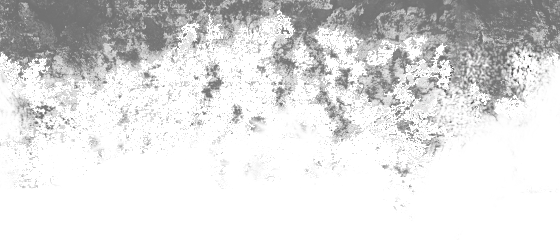
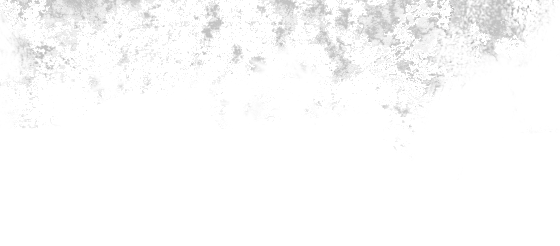
restyling and main pagination

diff --git a/css/style.css b/css/style.css
@@ -1,25 +1,31 @@
 body {
 	margin:0px;
-	background-color:#332B24;
+	background-color:#002233;
+	background: -moz-linear-gradient(top, rgba(0,34,51,1) 0%, rgba(0,34,51,1) 45%, rgba(0,0,0,1) 100%, rgba(0,0,0,1) 100%);
+background: -webkit-gradient(linear, left top, left bottom, color-stop(0%,rgba(0,34,51,1)), color-stop(45%,rgba(0,34,51,1)), color-stop(100%,rgba(0,0,0,1)), color-stop(100%,rgba(0,0,0,1)));
+background: -webkit-linear-gradient(top, rgba(0,34,51,1) 0%,rgba(0,34,51,1) 45%,rgba(0,0,0,1) 100%,rgba(0,0,0,1) 100%);
+background: -o-linear-gradient(top, rgba(0,34,51,1) 0%,rgba(0,34,51,1) 45%,rgba(0,0,0,1) 100%,rgba(0,0,0,1) 100%);
+background: -ms-linear-gradient(top, rgba(0,34,51,1) 0%,rgba(0,34,51,1) 45%,rgba(0,0,0,1) 100%,rgba(0,0,0,1) 100%);
+background: linear-gradient(to bottom, rgba(0,34,51,1) 0%,rgba(0,34,51,1) 45%,rgba(0,0,0,1) 100%,rgba(0,0,0,1) 100%);
 	min-width:850px;
+	font-family:'Oxygen', sans-serif;
+	height:100%;
 	}
 
 .panel_title {
-	font-family:sans-serif;
+	font-family:'Oxygen', sans-serif;
 	text-align:center;
 }
 
 .header_table{
 	width:100%;
 	min-width:850px;
-	background-image: url("../images/banner_bg.jpg");
+	background-image: url("../images/login_bg.png");
 	background-repeat:repeat-x;
-	background-color:#ff9933;
+	background-color:#002233;
 	display:table;
 	height:100px;
 	position:relative;
-
-
 }
 
 #new_user_overlay {
@@ -36,7 +42,7 @@ body {
 }
 #new_user_overlay div {
 	visibility:inherit;
-	 font-family:sans-serif;
+	 font-family:'Oxygen', sans-serif;
      width:50%;
      min-width:200px;
      margin: 100px auto;
@@ -74,7 +80,7 @@ body {
 #login_area {
 
 	position:absolute;
-	font-family:sans-serif;
+	font-family:'Oxygen', sans-serif;
 	text-align: center;
 	margin-top:10px;
 	padding:20px;
@@ -85,7 +91,7 @@ body {
 #login_box {
 
 	font-weight: bold;
-	color:green;
+	color:white;
 }
 
 #login_box a {
@@ -186,19 +192,17 @@ body {
 	float:left;
 	position:relative;
 	padding:0 0 1em 0;						
-	overflow:hidden;
+
 }
 
-.threecol {
-	background:#eee;		
-}
+
 .threecol .colmid {
 	right:25%;			
-	background:#fff;		
+	
 }
 .threecol .colleft {
 	right:50%;			
-	background:#f4f4f4;	
+
 }
 .threecol .col1 {
 	width:46%;			
@@ -218,40 +222,115 @@ body {
 }
 
 .main_box {
+	-webkit-box-shadow: 0px 22px 52px 0px rgba(0,0,0,0.75);
+	-moz-box-shadow: 0px 22px 52px 0px rgba(0,0,0,0.75);
+	box-shadow: 0px 22px 52px 0px rgba(0,0,0,0.75);
+	-webkit-box-shadow: inset 0px 0px 29px 0px rgba(35,45,51,1);
+	-moz-box-shadow: inset 0px 0px 29px 0px rgba(35,45,51,1);
+	box-shadow: inset 0px 0px 20px 0px rgba(35,45,51,.4);
 	border:1px solid black;
-	border-radius: 25px;
+	border-radius: 5px;
 	padding:10px;
+	background-color:#E4EEF5;
+	background-image: url('../images/box_fx.png');
+	background-repeat: repeat-x;
+	background-position: top;
+	
 }
+   
 .box {
 	border:1px solid gray;
 	list-style-type: none;
-	border-radius: 25px;
+	overflow:hidden;
+	border-radius:5px;
 	padding:10px;
+	background-color:#fff;
+	-webkit-box-shadow: 0px 22px 52px 0px rgba(0,0,0,0.75);
+	-moz-box-shadow: 0px 22px 52px 0px rgba(0,0,0,0.75);
+	box-shadow: 0px 22px 52px 0px rgba(0,0,0,0.75);
+	-webkit-box-shadow: inset 0px 0px 29px 0px rgba(35,45,51,1);
+	-moz-box-shadow: inset 0px 0px 29px 0px rgba(35,45,51,1);
+	box-shadow: inset 0px 0px 20px 0px rgba(35,45,51,.4);
+	background-color:#E4EEF5;
+	background-image: url('../images/box_fx.png');
+	background-repeat: repeat-x;
+	background-position: top;
 }	
+.box a{
+	color:#002233;
+}
+.box a:visited{
+	color:#002233;
+}
+.box a:hover{
+	color:#002233;
+}
+
 
 .textbox {
 	width:100%;
+	border:1px solid #gray;
+}
+.textbox:focus{
+	-webkit-box-shadow: 0px 0px 5px 0px rgba(81,162,224,1);
+-moz-box-shadow: 0px 0px 5px 0px rgba(81,162,224,1);
+box-shadow: 0px 0px 5px 0px rgba(81,162,224,1);
 }
 
 
 
 .post_listing {
 	
-	font-family:sans-serif;
+	font-family:'Oxygen', sans-serif;
 	
 	}
 
-.edit_delete {
-	text-align: right;
+.page_buttons {
+	text-align:center;
 }
+
+
+
+.listing_buttons{
+	text-decoration:none;
+	color:white;
+	text-shadow: 1px 1px 1px #222;
+	background: #3498db;
+	background: -webkit-gradient(linear, left top, left bottom, from(#64b3e8), to(#00548c));
+    background: -webkit-linear-gradient(top, #64b3e8, #00548c);
+    background: -moz-linear-gradient(top, #64b3e8, #00548c);
+    background: -ms-linear-gradient(top, #64b3e8, #00548c);
+    background: -o-linear-gradient(top, #64b3e8, #00548c);
+    -webkit-border-radius: 5px;
+    -moz-border-radius: 5px;
+    border-radius: 5px;
+	font-size:.8em;
+	padding:3px;
+	border:1px solid #3498db;
+	box-sizing:border-box;
+	box-shadow:1px 1px 2px #222;;
+}
+.listing_buttons a{
+	text-decoration:none;
+	color:white;
+}
+.listing_buttons a:visited{
+	text-decoration:none;
+	color:white;
+}
+.listing_buttons a:hover{
+	text-decoration:none;
+	color:white;
+}
+
 
 .datetime {
 	color:gray;
 }
 
 .post_listing_title {
-	color:orange;
-	font-size:2em;
+	color:#002233;
+	font-size:1.2em;
 }
 .post_listing_body {
 	color:gray;

diff --git a/temp/grunge/style.css b/temp/grunge/style.css
@@ -101,13 +101,6 @@ body {
 	text-transform:uppercase;
 }
 
-.post_body {
-	background-color:rgba(256,256,256,.5);
-	border-radius:25px;
-	padding:5px;
-	display:inline-block;
-}
-
 .post_listing {	
 	font-family:serif;
 
@@ -245,7 +238,6 @@ body {
 
 #footer{
 	font-family: IM Fell English, serif;
-	text-transform:uppercase;
 	color:#A5AFB8;
 }
 #footer a{

diff --git a/member.php b/member.php
@@ -45,12 +45,13 @@ $first_setup_complete = $main_row[0]['first_setup_complete'];
 				<div class="box">
 				<h4 class="panel_title">Post List</h4>
 				<?php
-
+				//Query member's posts
 				$stmt = $db->prepare('SELECT * FROM blogs WHERE owner = ?');
 				$stmt->bindParam(1, $_SESSION['uid'], PDO::PARAM_INT);
 				$stmt->execute();
-				 $row = $stmt->fetchALL(PDO::FETCH_ASSOC);
+				$row = $stmt->fetchALL(PDO::FETCH_ASSOC);
 
+				 //Sort by date and time
 				function compare_datetimes($a, $b)
 					{
 					    $t1 = strtotime($a["datetime"]);
@@ -59,16 +60,43 @@ $first_setup_complete = $main_row[0]['first_setup_complete'];
 					    return ($t2 - $t1);
 					}
 
-				usort($row, "compare_datetimes");			
+				usort($row, "compare_datetimes");	
+				
+				//Pagination	
+				if($_GET['page'] == 1 || !isset($_GET['page'])){
+					$page = 1;
+				} else {
+					$page = $_GET['page'];
+				}
+				// $page = $_GET['page'];
+				$posts_page_start = ($page - 1) * 8;
+				$num_of_pages = ceil(count($row) / 8);
 
-				for($count = 0; $count < count($row); $count++){
+				echo '<p class="page_buttons">';
+				if($page == 1){
+					echo 'Previous | '; 	
+					echo '<a href="member.php?page=' . ($page+1) . '">Next</a>';
+				}elseif($page == $num_of_pages){
+					echo '<a href="member.php?page=' . ($page-1) . '">Previous</a> | ';
+					echo 'Next';
+				}else {
+					echo '<a href="member.php?page=' . ($page-1) . '">Previous</a> | ';
+					echo '<a href="member.php?page=' . ($page+1) . '">Next</a>';
+				}
+				echo '</p>';
+
+				for($count = $posts_page_start; $count < $posts_page_start+8 && $count < count($row); $count++){
 					if($row[$count]['draft'] == 1){
-					echo '<p><span class="post_listing">' . '<span class="post_listing_title">' . $row[$count]['title'] . ' (Draft)</span></br>' . '<span class="post_listing_body">' . substr($row[$count]['body'],0,60) . '...</span></br><span class="datetime">' . $row[$count]['datetime'] . ' </span><span class="edit_delete"><a href="edit_draft.php?post_id=' . $row[$count]['id'] . '">Edit</a>   <a href="delete_post.php?post_id=' . $row[$count]['id'] . '" onclick="return confirm(\'Warning: This is not an undoable action. Are you sure you want to delete this post?\');">Delete</a></span></p>';			
+					echo '<p><span class="post_listing">' . '<span class="post_listing_title">' . $row[$count]['title'] . ' (Draft)</span></br>' . '<span class="post_listing_body">' . substr($row[$count]['body'],0,60) . '...</span></br><span class="datetime">' . $row[$count]['datetime'] . ' | </span><span class="listing_buttons"><a href="edit_post.php?post_id=' . $row[$count]['id'] . '">Edit</a></span>   <span class="listing_buttons"><a href="delete_post.php?post_id=' . $row[$count]['id'] . '" onclick="return confirm(\'Warning: This is not an undoable action. Are you sure you want to delete this post?\');">Delete</a></span> <span class="listing_buttons"><a href="member_blog/' . $main_row[0]['username'] . '/index.php?p=' . $row[$count]['id'] . '">View</a></span></p>';			
 					} else {
-						echo '<p><span class="post_listing">' . '<span class="post_listing_title">' . $row[$count]['title'] . '</span></br>' . '<span class="post_listing_body">' . substr($row[$count]['body'],0,60) . '...</span></br><span class="datetime">' . $row[$count]['datetime'] . ' </span><span class="edit_delete"><a href="edit_post.php?post_id=' . $row[$count]['id'] . '">Edit</a>   <a href="delete_post.php?post_id=' . $row[$count]['id'] . '" onclick="return confirm(\'Warning: This is not an undoable action. Are you sure you want to delete this post?\');">Delete</a></span></p>';			
+						echo '<p><span class="post_listing">' . '<span class="post_listing_title">' . $row[$count]['title'] . '</span></br>' . '<span class="post_listing_body">' . substr($row[$count]['body'],0,60) . '...</span></br><span class="datetime">' . $row[$count]['datetime'] . ' | </span><span class="listing_buttons"><a href="edit_post.php?post_id=' . $row[$count]['id'] . '">Edit</a></span>   <span class="listing_buttons"><a href="delete_post.php?post_id=' . $row[$count]['id'] . '" onclick="return confirm(\'Warning: This is not an undoable action. Are you sure you want to delete this post?\');">Delete</a></span> <span class="listing_buttons"><a href="member_blog/' . $main_row[0]['username'] . '/index.php?p=' . $row[$count]['id'] . '">View</a></span></p>';			
 					}
 				}	
+
+
 				?>
+
+
 				</div>
 
 			</div>

diff --git a/header.php b/header.php
@@ -4,6 +4,7 @@
 <head>
 <title>"Welcome to SuperCoolPost!"</title>
 <link rel="stylesheet" href="css/style.css">
+<link href='http://fonts.googleapis.com/css?family=Oxygen:400,300,700' rel='stylesheet' type='text/css'>
 <script src="jquery-1.11.2.min.js" type="text/javascript"></script>
 </head>
 <body>
